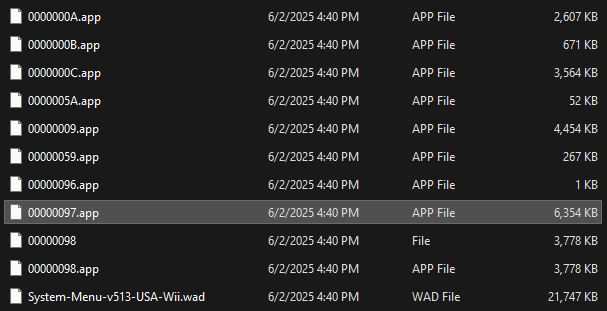
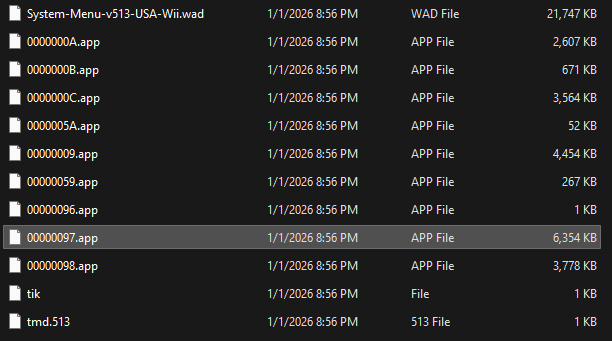
Updates for completeness and suggested changes
cios.md - Updates to images and wording based on earlier suggestions
update.md - Updates to images and wording based on earlier suggestions, changed `e.x.` to `e.g.`
themes.md - Updates to images and wording based on earlier suggestions, additional fix to table formatting which caused list start over after a table entry
various documents - Changing all instances of `MacOS` to `macOS` for consistency and correctness purposes

diff --git a/docs/themes.md b/docs/themes.md
@@ -64,15 +64,15 @@ Before proceeding, it helps to know the difference between .MYM and .CSM as file
 
 :::: tab (Wii) Via NUSGet
 
-1. On your computer, download [NUSGet](https://github.com/NinjaCheetah/NUSGet/releases/latest/), choosing the archive corresponding to your operating system. For Windows users, you should get `NUSGet-Windows-x86_64-onefile-bin.zip`.
-1. Unzip the archive and run NUSGet.
-1. Navigate to `System` > `System Menu` > `Your Region` and then select the Wii menu version you are running. Check the `Create decrypted contents (*.app)` option and then press `Start Download`.
+1. On your computer, download [NUSGet](https://github.com/NinjaCheetah/NUSGet/releases/latest/), choosing the archive corresponding to your operating system. For Windows users, you should choose the `NUSGet-Windows-x86_64-bin.zip` file.
+1. Unzip the archive and run the NUSGet executable.
+1. Navigate to `System` > `System Menu` > `Your Region` and then select the Wii menu version you are running. Check the `Create decrypted contents (*.app)` option. Check `Use a custom download directory` and select the folder that your NUSGet executable is in, then click `Start Download`.
 
     ![](/images/desktop-apps/nusget/nusget-wiimenu-dl.png)
-1. Downloads are output to a `NUSGet Downloads` folder in the same directory as `NUSGet.exe`. Open this folder, and locate the `0000000100000002` folder inside it.
+1. When you have finished downloading the Wii menu files, navigate to the directory where your NUSGet executable is stored. You should locate and open the `0000000100000002` folder inside it.
 
-    ![](/images/desktop-apps/nusget/nusget-folder.png)
-1. Find the **largest .app file** (usually 6~7MB) inside the folder.
+    ![](/images/desktop-apps/nusget/nusget-folder-wiimenu.png)
+1. Find the **largest .app file** (usually ~6-7MB) inside the folder.
 
     ![](/images/desktop-apps/nusget/nusget-wiimenu-output.png)
 1. Create a `themes` folder on the root of your SD card/USB device.
@@ -82,33 +82,34 @@ Before proceeding, it helps to know the difference between .MYM and .CSM as file
 
 :::: tab (vWii) Via NUSGet
 
-1. On your computer, download [NUSGet](https://github.com/NinjaCheetah/NUSGet/releases/latest/), choosing the archive corresponding to your operating system. For Windows users, you should get `NUSGet-Windows-x86_64-onefile-bin.zip`.
-1. Unzip the archive and run NUSGet.
+1. On your computer, download [NUSGet](https://github.com/NinjaCheetah/NUSGet/releases/latest/), choosing the archive corresponding to your operating system. For Windows users, you should choose the `NUSGet-Windows-x86_64-bin.zip` file.
+1. Unzip the archive and run the NUSGet executable.
 1. Select the `vWii` tab and navigate to `System` > `System Menu` > `Your Region`.
 1. Select the version that corresponds to your Wii U's region in the table below:
 
-| Region    | vWii Menu version           |
-| --------- | --------------------------- |
-| Japan     | v608 (4.3J - Wii U v5.2.0J) |
-| USA       | v609 (4.3U - Wii U v5.2.0U) |
-| Europe    | v610 (4.3E - Wii U v5.2.0E) |
+    | Region      | vWii Menu version             |
+    | :---------: | :---------------------------: |
+    | Japan       | v608 (4.3J - Wii U v5.2.0J)   |
+    | USA         | v609 (4.3U - Wii U v5.2.0U)   |
+    | Europe      | v610 (4.3E - Wii U v5.2.0E)   |
 
-1. Check the `Create decrypted contents (*.app)` box, and then press `Start Download`.
+1. Check the `Create decrypted contents (*.app)` box. Check `Use a custom download directory` and select the folder that your NUSGet executable is in, then click `Start Download`.
 
     ![](/images/desktop-apps/nusget/nusget-vwiimenu-dl.png)
-1. Downloads are output to a `NUSGet Downloads` folder in the same directory as your NUSGet executable. Open this folder, and locate the `0000000700000002` folder inside it.
+1. When you have finished downloading the Wii menu files, navigate to the directory where your NUSGet executable is stored. You should locate and open the `0000000700000002` folder inside it.
 
-    ![](/images/desktop-apps/nusget/nusget-folder.png)
+    ![](/images/desktop-apps/nusget/nusget-folder-vwiimenu.png)
 1. Find the .app file that corresponds to your Wii U's region in the table below:
 
-| Region    | .app file     |
-| --------- | ------------- |
-| Japan     | 0000001C.app  |
-| USA       | 0000001F.app  |
-| Europe    | 00000022.app  |
+    | Region      | .app file       |
+    | :---------: | :-------------: |
+    | Japan       | 0000001C.app    |
+    | USA         | 0000001F.app    |
+    | Europe      | 00000022.app    |
 
 1. Create a `themes` folder on the root of your SD card/USB device.
 1. Copy the .app file to the newly created `themes` folder. This is the base theme you will use to build your custom theme.
+
 
 ::::
 

diff --git a/docs/update.md b/docs/update.md
@@ -13,7 +13,7 @@ It is much safer to use [ModMii](modmii) (Windows only) to update your Wii to 4.
 * a Wii with The Homebrew Channel 1.0.8 or later
     * If you do not have the Homebrew Channel or it is out of date, please [start here](get-started) to (re)install it first.
 * An SD card or USB drive
-* A Windows/MacOS/Linux computer
+* A Windows/macOS/Linux computer
 * [NUSGet](https://github.com/NinjaCheetah/NUSGet/releases/latest/)
 * [Priiloader](priiloader)
 * [YAWM ModMii Edition](https://oscwii.org/library/app/yawmme)
@@ -22,24 +22,24 @@ It is much safer to use [ModMii](modmii) (Windows only) to update your Wii to 4.
 
 ### Section I - Downloading
 
-1. Download the archive corresponding to your operating system. For Windows users, you should get `NUSGet-Windows-x86_64-onefile-bin.zip`.
-1. Unzip the archive and run NUSGet.
-1. Go to `System` > `0000000100000002 - System Menu` > `Your Region` and then select the latest 4.3 version of the menu (e.x. `v513 4.3U` for USA). Uncheck `Keep encrypted contents` and press `Start Download`.
+1. On your computer, download NUSGet using the link above, choosing the archive corresponding to your operating system. For Windows users, you should choose the `NUSGet-Windows-x86_64-bin.zip` file.
+1. Unzip the archive and run the NUSGet executable.
+1. Go to `System` > `0000000100000002 - System Menu` > `Your Region` and then select the latest 4.3 version of the menu (e.g. `v513 4.3U` for USA). Uncheck `Keep encrypted contents`. Check `Use a custom download directory` and select the folder that your NUSGet executable is in, then click `Start Download`.
 
     ![](/images/desktop-apps/nusget/nusget-wiimenu-dl-alt.png)
-1. Go to `System` > `000000010000003A - IOS 58` > `Latest Version`. Uncheck `Keep encrypted contents` and press `Start Download`.
+1. Go to `IOS` > `000000010000003A - IOS 58` > `World` > `Latest Version`. Uncheck `Keep encrypted contents`. Check `Use a custom download directory` and select the folder that your NUSGet executable is in, then click `Start Download`.
 
     ![](/images/desktop-apps/nusget/nusget-ios58-dl.png)
-1. Go to `System` > `0000000100000050 - IOS 80` > `Latest Version`. Uncheck `Keep encrypted contents` and press `Start Download`.
+1. Go to `IOS` > `0000000100000050 - IOS 80` > `World` > `Latest Version`. Uncheck `Keep encrypted contents`. Check `Use a custom download directory` and select the folder that your NUSGet executable is in, then click `Start Download`.
 
     ![](/images/desktop-apps/nusget/nusget-ios80-dl.png)
-1. When you have finished downloading the above IOS, locate a folder named `NUSGet Downloads` in the same directory as your NUSGet executable. This contains your WAD files.
+1. When you have finished the above steps, navigate to the directory where your NUSGet executable is stored. This should now contain three different folders with the title IDs for the downloaded IOS and Wii menu files.
 
-    ![](/images/desktop-apps/nusget/nusget-folder.png)
-1. Go into the folders corresponding to the title numbers for the above, and locate the singular WAD file in each. You will need to copy these to a folder called `wad` on your SD card or USB drive.
-1. After you have copied all 3 `.wad` files, eject your SD card/USB drive from your PC and put it back into your Wii.
+    ![](/images/desktop-apps/nusget/nusget-folder-wiimenu-alt.png)
+1. Go into the folders corresponding to the title numbers for the above, and locate the singular WAD file in each. You will need to copy these to a folder called `wad` on your SD card or USB drive. The end result should include the files below in the folder:
 
-
+    ![](/images/desktop-apps/nusget/nusget-copy-wiimenu-sd.png)
+1. After you have copied all 3 WAD files, eject your SD card/USB drive from your PC and insert it back into your Wii.
 
 ### Section II - Installing
 

diff --git a/docs/cios.md b/docs/cios.md
@@ -49,26 +49,33 @@ If you are able to connect your Wii to the internet, you may skip to [Section II
 :::
 
 1. Power off your console, and insert your SD card or USB drive into your computer.
-1. On your computer, download [NUSGet](https://github.com/NinjaCheetah/NUSGet/releases/latest/), choosing the archive corresponding to your operating system. For Windows users, you should get `NUSGet-Windows-x86_64-onefile-bin.zip`.
-1. Unzip the archive and run NUSGet.
-1. Navigate to `IOS` > `IOS 38` > `World` and select `v4123`. Uncheck `Keep encrypted contents` and then click `Start Download`.
+1. On your computer, download [NUSGet](https://github.com/NinjaCheetah/NUSGet/releases/latest/), choosing the archive corresponding to your operating system. For Windows users, you should choose the `NUSGet-Windows-x86_64-bin.zip` file.
+1. Unzip the archive and run the NUSGet executable.
+1. Navigate to `IOS` > `IOS 38` > `World` and select `v4123`. Uncheck `Keep encrypted contents`. Check `Use a custom download directory` and select the folder that your NUSGet executable is in, then click `Start Download`.
 
     ![](/images/desktop-apps/nusget/nusget-4123.png)
 1. Repeat the above step for `IOS 56 (v5661)`, `IOS 57 (v5918)` and `IOS 58 (v6175)`.
-1. When you have finished downloading the above IOS, locate a folder named `NUSGet Downloads` in the same directory as your NUSGet executable. This contains your WAD files.
+1. When you have finished downloading the above IOS, navigate to the directory where your NUSGet executable is stored. This should now contain four different folders with the title IDs for the above IOS.
 
-    ![](/images/desktop-apps/nusget/nusget-folder.png)
-1. Open the `NUSGet Downloads` folder and enter each of the four directories, locating a `IOS-XX-vXXXX-Wii.wad` file.
+    ![](/images/desktop-apps/nusget/nusget-folder-ios.png)
+1. Enter the four directories, locating a `IOS-XX-vXXXX-Wii.wad` file in each.
 
     ![](/images/desktop-apps/nusget/nusget-ios-output.png)
 1. Place each WAD file on the root of your SD card or USB drive.
     + This must be the same device containing the d2x cIOS Installer.
+1. Ensure that each WAD file is named as listed below for compatability purposes with d2x-cios-installer:
 
+    | IOS         | File Name               |
+    | :---------: | :---------------------: |
+    | IOS 38      | IOS38-64-v4123.wad      |
+    | IOS 56      | IOS56-64-v5661.wad      |
+    | IOS 57      | IOS57-64-v5918.wad      |
+    | IOS 58      | IOS58-64-v6175.wad      |
 ::: info
 
 The WAD files should be on your SD card like this:
 
-![](/images/cios/d2x_offline_ios.png)
+![](/images/desktop-apps/nusget/nusget-ios-on-sd.png)
 
 :::
 

diff --git a/docs/nintendowfc.md b/docs/nintendowfc.md
@@ -183,7 +183,7 @@ A method for Wiimmfi patching which runs on game disc images, but must be manual
 1. Download the patcher and extract the `.zip` file.
 1. Open the extracted folder and copy your Wii game images into it.
     + If you're on Windows, double-click the `patch-images.bat` file (this may also be displayed as "patch-images" Batch File). If you run into Cygwin-related issues, try the `patch-images-32.bat` file instead.
-    + If you're on MacOS, open a command line prompt in the current folder, make the shell script executable through the command `chmod +x *.sh` and then execute `./patch-images.sh`.
+    + If you're on macOS, open a command line prompt in the current folder, make the shell script executable through the command `chmod +x *.sh` and then execute `./patch-images.sh`.
     + If you're on Linux, double-click the `patch-images.desktop` file (this may also be displayed as "Patch Images") or execute the `./patch-images.sh` file in a terminal after making it executable through the command `chmod +x *.sh`.
 1. If the above was successful, you should see a window pop-up that displays the patching process. Once the process finishes, you will find the patched images in a folder called `wiimmfi-images`.
 

diff --git a/docs/wii-backups.md b/docs/wii-backups.md
@@ -1,6 +1,6 @@
 # Managing Wii Backups
 
-This guide provides instructions on how to manage your Wii backups, from joining .PART files that are output through CleanRip, to shrinking game files that can be copied onto a FAT32 device. Two programs that can be used to manage your Wii backups are Wii Backup Manager (for Windows) and Wii Backup Fusion (for Linux and MacOS) and are covered below.
+This guide provides instructions on how to manage your Wii backups, from joining .PART files that are output through CleanRip, to shrinking game files that can be copied onto a FAT32 device. Two programs that can be used to manage your Wii backups are Wii Backup Manager (for Windows) and Wii Backup Fusion (for Linux and macOS) and are covered below.
 
 ::: info
 
@@ -102,7 +102,7 @@ If your disc was dumped to a FAT32 device, you should have gotten at least two f
 
 ### Requirements
 
-* A PC running MacOS or Linux
+* A PC running macOS or Linux
 * A USB drive or SD card
 * A dumped ISO from a Wii game disc
 * [Wii Backup Fusion](https://github.com/larsenv/Wii-Backup-Fusion/releases)

diff --git a/docs/homebrew-dolphin.md b/docs/homebrew-dolphin.md
@@ -4,7 +4,7 @@ On Dolphin Emulator version `5.0-4588` or later, the Wii Menu can be easily inst
 
 ## Requirements
 
-* A Windows/MacOS/Linux computer with an Internet connection
+* A Windows/macOS/Linux computer with an Internet connection
 * [Dolphin Emulator](https://dolphin-emu.org/download/) version `5.0-4588` or later
 * The latest version of [Open Homebrew Channel](https://github.com/Wii-Mini-Hacking/hbc/releases)
 

diff --git a/docs/letterbomb.md b/docs/letterbomb.md
@@ -18,7 +18,7 @@ Do NOT use any of the MAC address examples shown in this guide, as they will sim
 
 * An SD card formatted as FAT32 that is 32GB or less
 * A Wii on System Menu version 4.3
-* A Windows/MacOS/Linux computer with an Internet connection
+* A Windows/macOS/Linux computer with an Internet connection
 
 ## Instructions
 
